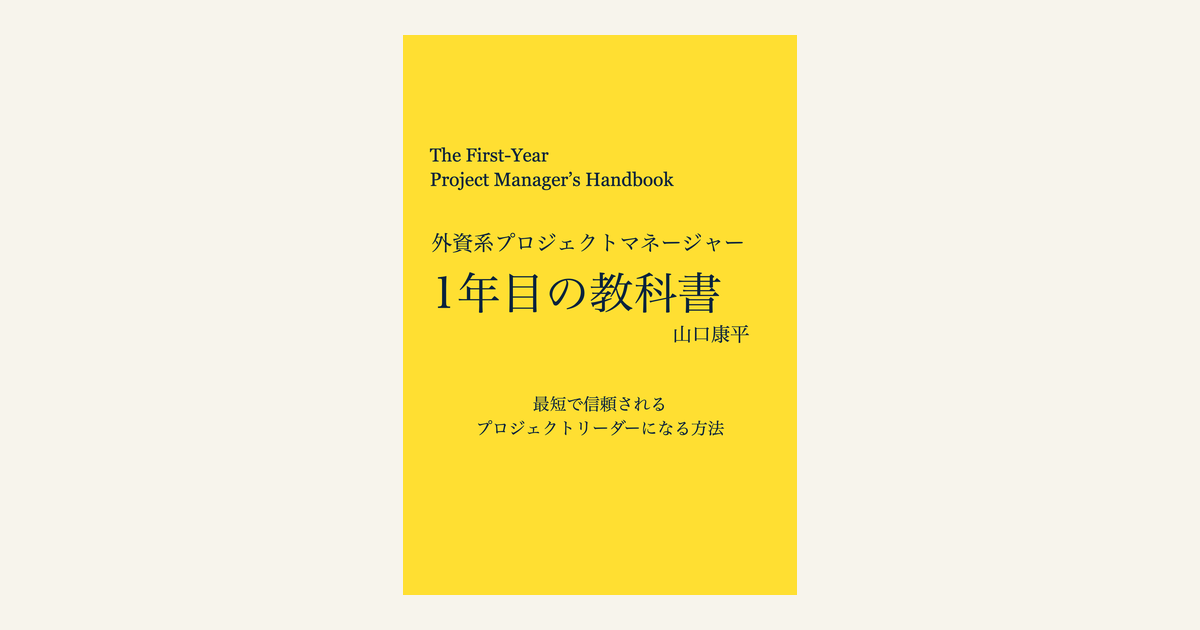
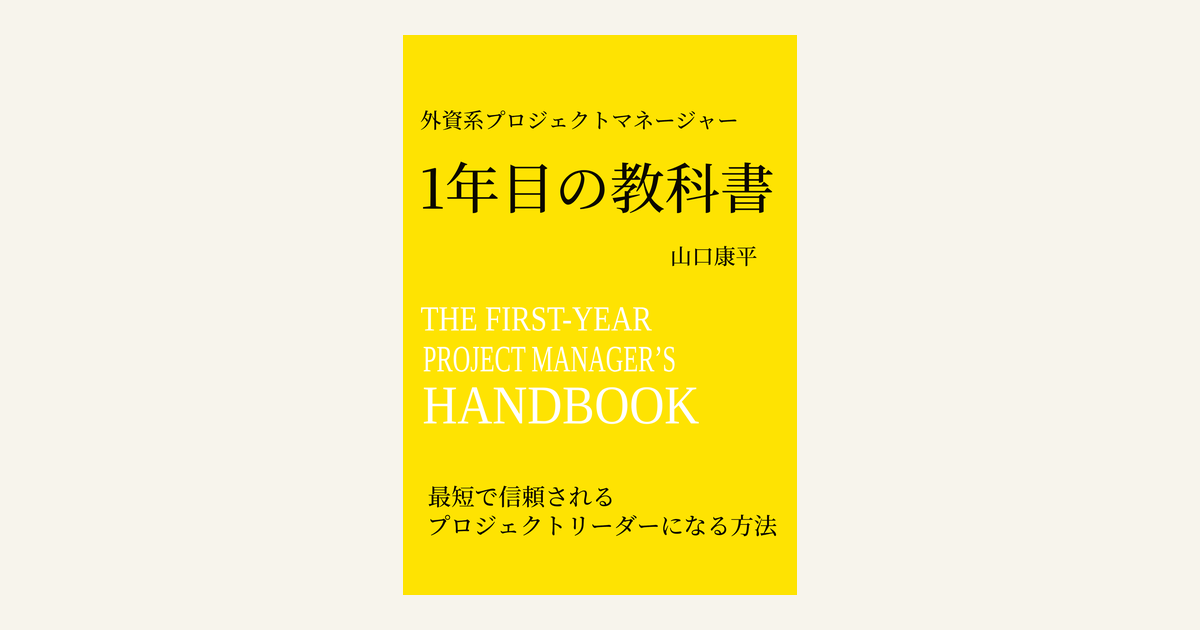
書籍の表紙を新デザインに差し替え、英題を書籍情報に追加
- cover_front.png / cover_front.webp / og_image.png を新しい表紙に更新
- 表紙の英題 The First-Year Project Manager’s Handbook を書籍情報の表と
  JSON-LD の alternateName に追加

Claude-Session: https://claude.ai/code/session_01CGW7QLnnb9PJwgBcHkvt61

Changed region(s): [[0.3083, 0.0302, 0.6783, 0.9651]]

diff --git a/sitegen/pages.py b/sitegen/pages.py
@@ -10,7 +10,7 @@ from sitegen.content import (
     BOOK_ABOUT, BOOK_AUTHOR, BOOK_AUTHOR_BIO, BOOK_AUTHOR_NAME, BOOK_BADGES, BOOK_BONUS_ERROR, BOOK_BONUS_FEATURES,
     BOOK_BONUS_HOWTO, BOOK_BONUS_INTRO, BOOK_BONUS_TEXT, BOOK_BONUS_TITLE, BOOK_CATCH, BOOK_CLOSING_TITLE,
     BOOK_COLUMNS, BOOK_COLUMNS_LEAD, BOOK_COMING_SOON_NOTE, BOOK_COVER_ALT, BOOK_FORMATS, BOOK_FOR_YOU, BOOK_LEAD,
-    BOOK_NOTIFY_TEXT, BOOK_NOTIFY_TITLE, BOOK_OG_DESCRIPTION, BOOK_PARTS, BOOK_SUBTITLE, BOOK_TITLE,
+    BOOK_NOTIFY_TEXT, BOOK_NOTIFY_TITLE, BOOK_OG_DESCRIPTION, BOOK_PARTS, BOOK_SUBTITLE, BOOK_TITLE, BOOK_TITLE_EN,
     BOOK_TRADEMARK_NOTE, BUSINESS_LEAD, BUSINESSES, COMPANY_ACTIVITIES, COMPANY_NAME_ORIGIN, COMPANY_PHILOSOPHY_TEXT,
     CONSULT_BUTTON, CONSULT_LEAD, CONSULT_TITLE, CONSULTATION_TEXT, CONSULTATION_TITLE, CONTACT_ASK,
     CONTACT_CATEGORIES, CONTACT_HOURS, CONTACT_INTRO, CONTACT_PROCESS, CONTACT_TITLE, CTA_LEAD, FAQ, FIT, FIT_NOTE,
@@ -721,6 +721,7 @@ def body_book(book: dict[str, str | None] = BOOK) -> str:
     rows = [
         ("書名", esc(BOOK_TITLE)),
         ("副題", esc(BOOK_SUBTITLE)),
+        ("英題", esc(BOOK_TITLE_EN)),
         ("著者", esc(BOOK_AUTHOR)),
         ("発行・発売", esc(SITE["name"])),
         ("形態", esc(BOOK_FORMATS)),

diff --git a/sitegen/seo.py b/sitegen/seo.py
@@ -6,7 +6,7 @@ import json
 from typing import Sequence
 from xml.sax.saxutils import escape as xml_escape
 
-from sitegen.content import BOOK, BOOK_AUTHOR, BOOK_SUBTITLE, BOOK_TITLE, PLACEHOLDER, SITE, SITE_URL
+from sitegen.content import BOOK, BOOK_AUTHOR, BOOK_SUBTITLE, BOOK_TITLE, BOOK_TITLE_EN, PLACEHOLDER, SITE, SITE_URL
 from sitegen.render import esc
 
 # Shared image for pages (and articles) without their own.
@@ -77,7 +77,7 @@ def book_jsonld(book: dict[str, str | None] = BOOK, site_url: str = SITE_URL) ->
         "@context": "https://schema.org",
         "@type": "Book",
         "name": BOOK_TITLE,
-        "alternateName": BOOK_SUBTITLE,
+        "alternateName": [BOOK_SUBTITLE, BOOK_TITLE_EN],
         "author": {"@type": "Person", "name": BOOK_AUTHOR},
         "publisher": {"@type": "Organization", "name": SITE["name"]},
         "inLanguage": "ja",

diff --git a/tests/test_book.py b/tests/test_book.py
@@ -98,6 +98,12 @@ class BookPageTests(unittest.TestCase):
         for key in ("offers", "isbn", "datePublished"):
             self.assertNotIn(key, data)
 
+    def test_english_title_from_cover(self):
+        from sitegen.content import BOOK_TITLE_EN
+        self.assertIn(esc(BOOK_TITLE_EN), body_book())
+        data = json.loads(re.search(r">(\{.*\})<", book_jsonld(COMING_SOON)).group(1))
+        self.assertIn(BOOK_TITLE_EN, data["alternateName"])
+
     def test_live_settings_render_without_placeholders(self):
         self.assertIn(BOOK["status"], ("coming_soon", "on_sale"))
         self.assertNotIn(PLACEHOLDER, body_book())

diff --git a/sitegen/content.py b/sitegen/content.py
@@ -638,6 +638,7 @@ BOOK_BADGES: tuple[str, ...] = (
 )
 BOOK_TITLE = "外資系プロジェクトマネージャー1年目の教科書"
 BOOK_SUBTITLE = "最短で信頼されるプロジェクトリーダーになる方法"
+BOOK_TITLE_EN = "The First-Year Project Manager’s Handbook"  # 表紙の英題
 BOOK_AUTHOR = "山口康平"
 BOOK_CATCH = "プロジェクトマネジメントには、原理原則がある。"
 BOOK_LEAD = (
